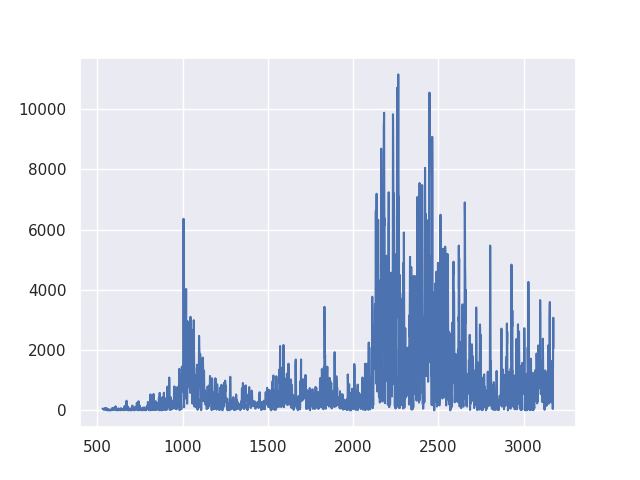
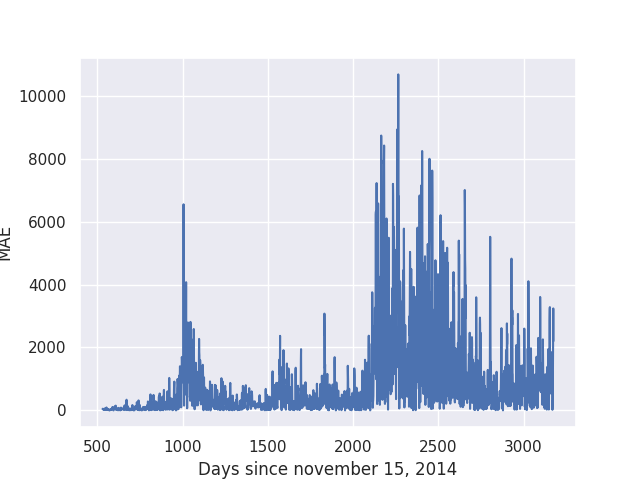
Added axis titles for plots

diff --git a/Code/NN_BTC_PROJ.py b/Code/NN_BTC_PROJ.py
@@ -189,6 +189,8 @@ if __name__ == "__main__":
         file.close()
 
     plt.plot(days, daily_mse_values_test)
+    plt.xlabel("Days since november 15, 2014")
+    plt.ylabel("MSE")
     cwd = os.getcwd()
     path = Path(cwd) / "Code" / "FigurePlots" / "LSTM"/ "MSE"
     plt.savefig(path / "daily_MSE_LSTM.png")
@@ -196,11 +198,15 @@ if __name__ == "__main__":
 
     path = Path(cwd) / "Code" / "FigurePlots" / "LSTM"/ "MAE"
     plt.plot(days, daily_MAE_values_test)
+    plt.xlabel("Days since november 15, 2014")
+    plt.ylabel("MAE")
     plt.savefig(path / "daily_MAE_LSTM.png")
     plt.show()
 
     path = Path(cwd) / "Code" / "FigurePlots" / "LSTM"/ "R2"
     plt.plot(days, rolling_r2_values)
+    plt.xlabel("Days since november 15, 2014")
+    plt.ylabel("R2 score")
     plt.savefig(path / "daily_R2_LSTM.png")
     plt.show()
 
